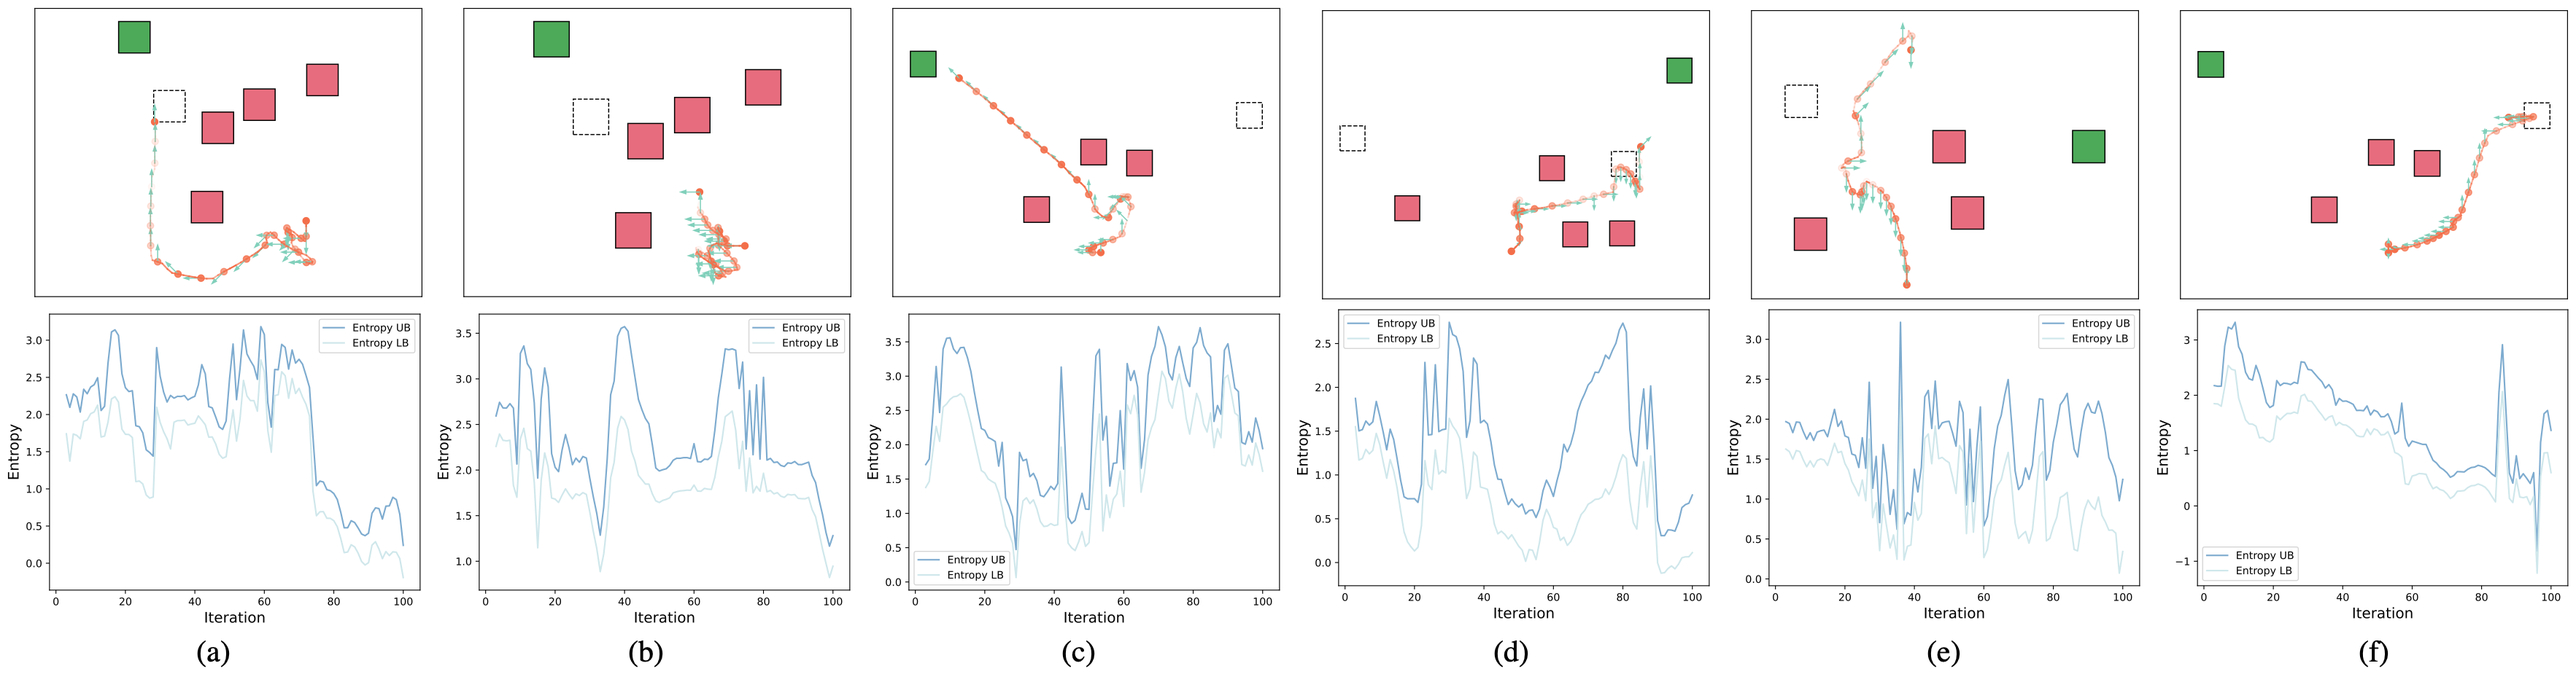
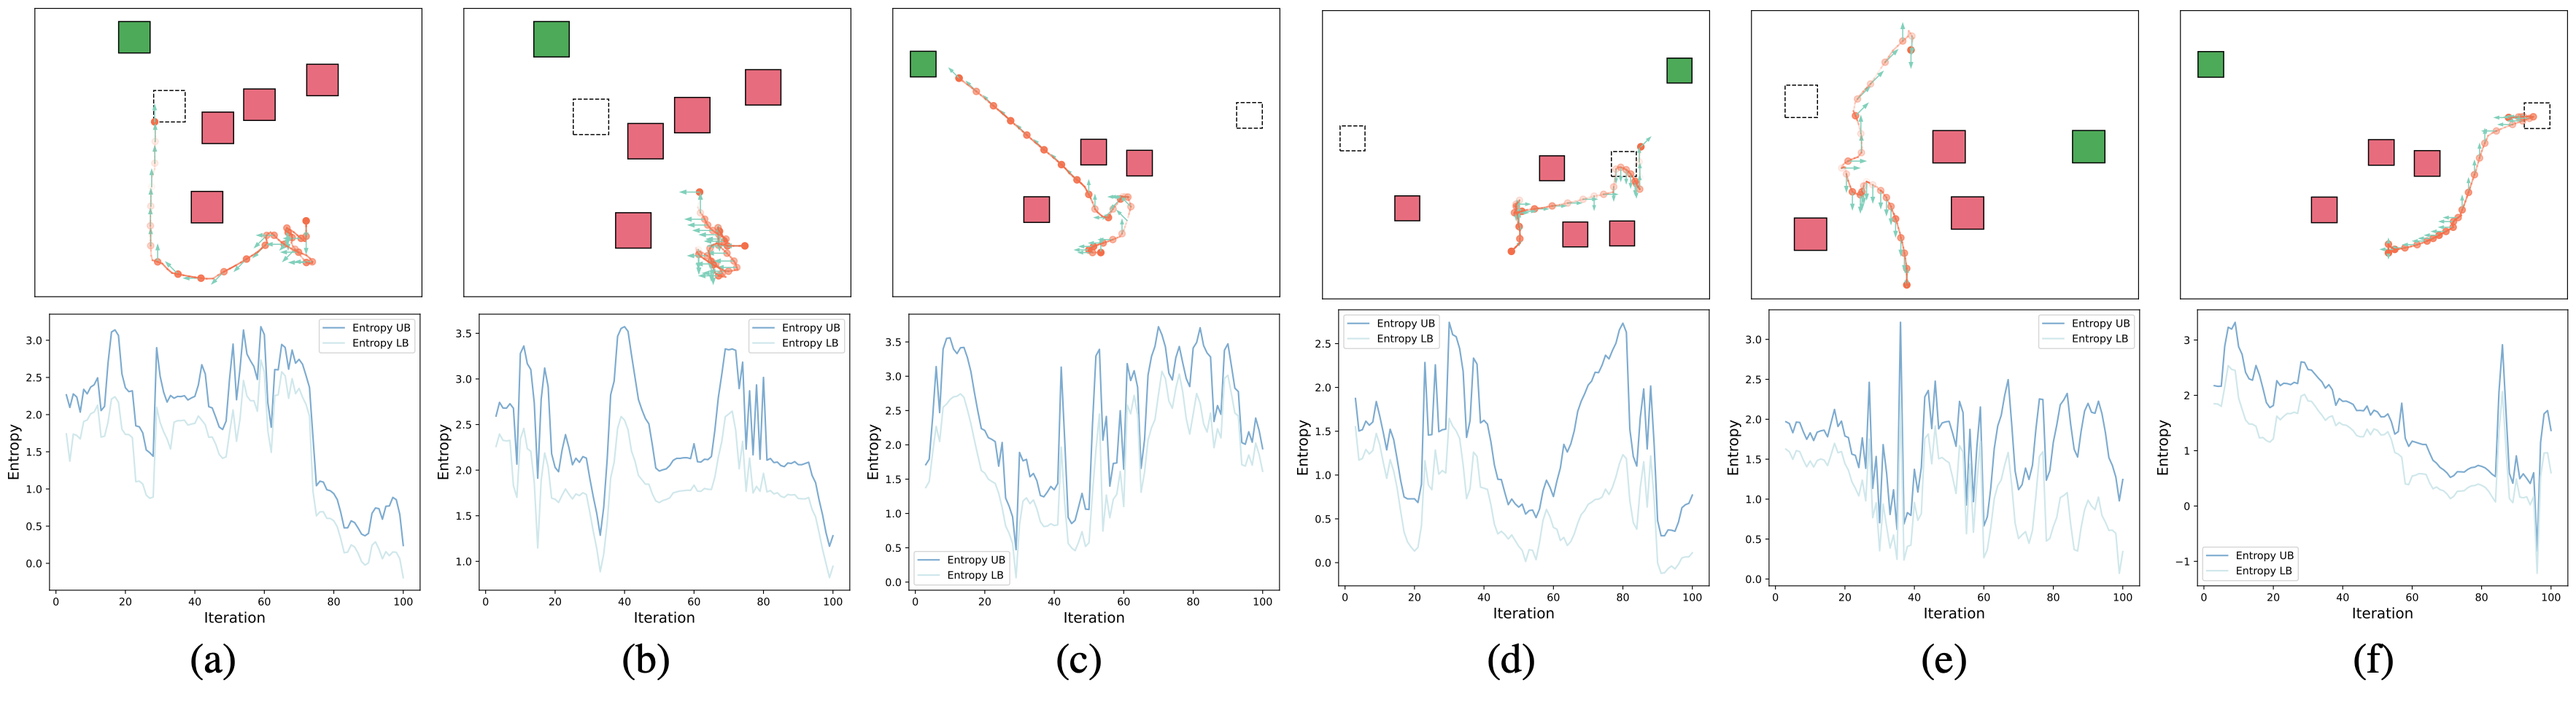
sim_exp

diff --git a/index.html b/index.html
@@ -975,14 +975,16 @@
             </div>
             <div class="columns is-centered has-text-centered">
                 <div class="content has-text-centered">
-                    <img src="./static/videos/sim_exp.png" alt="input image" style="vertical-align:middle;margin:0px 0px" width="100%" />
+                    <img src="./static/videos/sim_exp.png" alt="input image" style="vertical-align:middle;margin:0px 0px" width="80%" />
                 </div>
             </div>
             <div class="columns is-centered has-text-centered">
                 <div class="content has-text-centered">
                     <img src="./static/videos/failurecase.png" alt="input image" style="vertical-align:middle;margin:0px 0px" width="100%" />
                 </div>
-                <div class="video-title">Failure cases.</div>
+                <p class="has-text-centered">
+                    <strong>Failure cases</strong> 
+                </p>
             </div>
         </div>
     </section>
